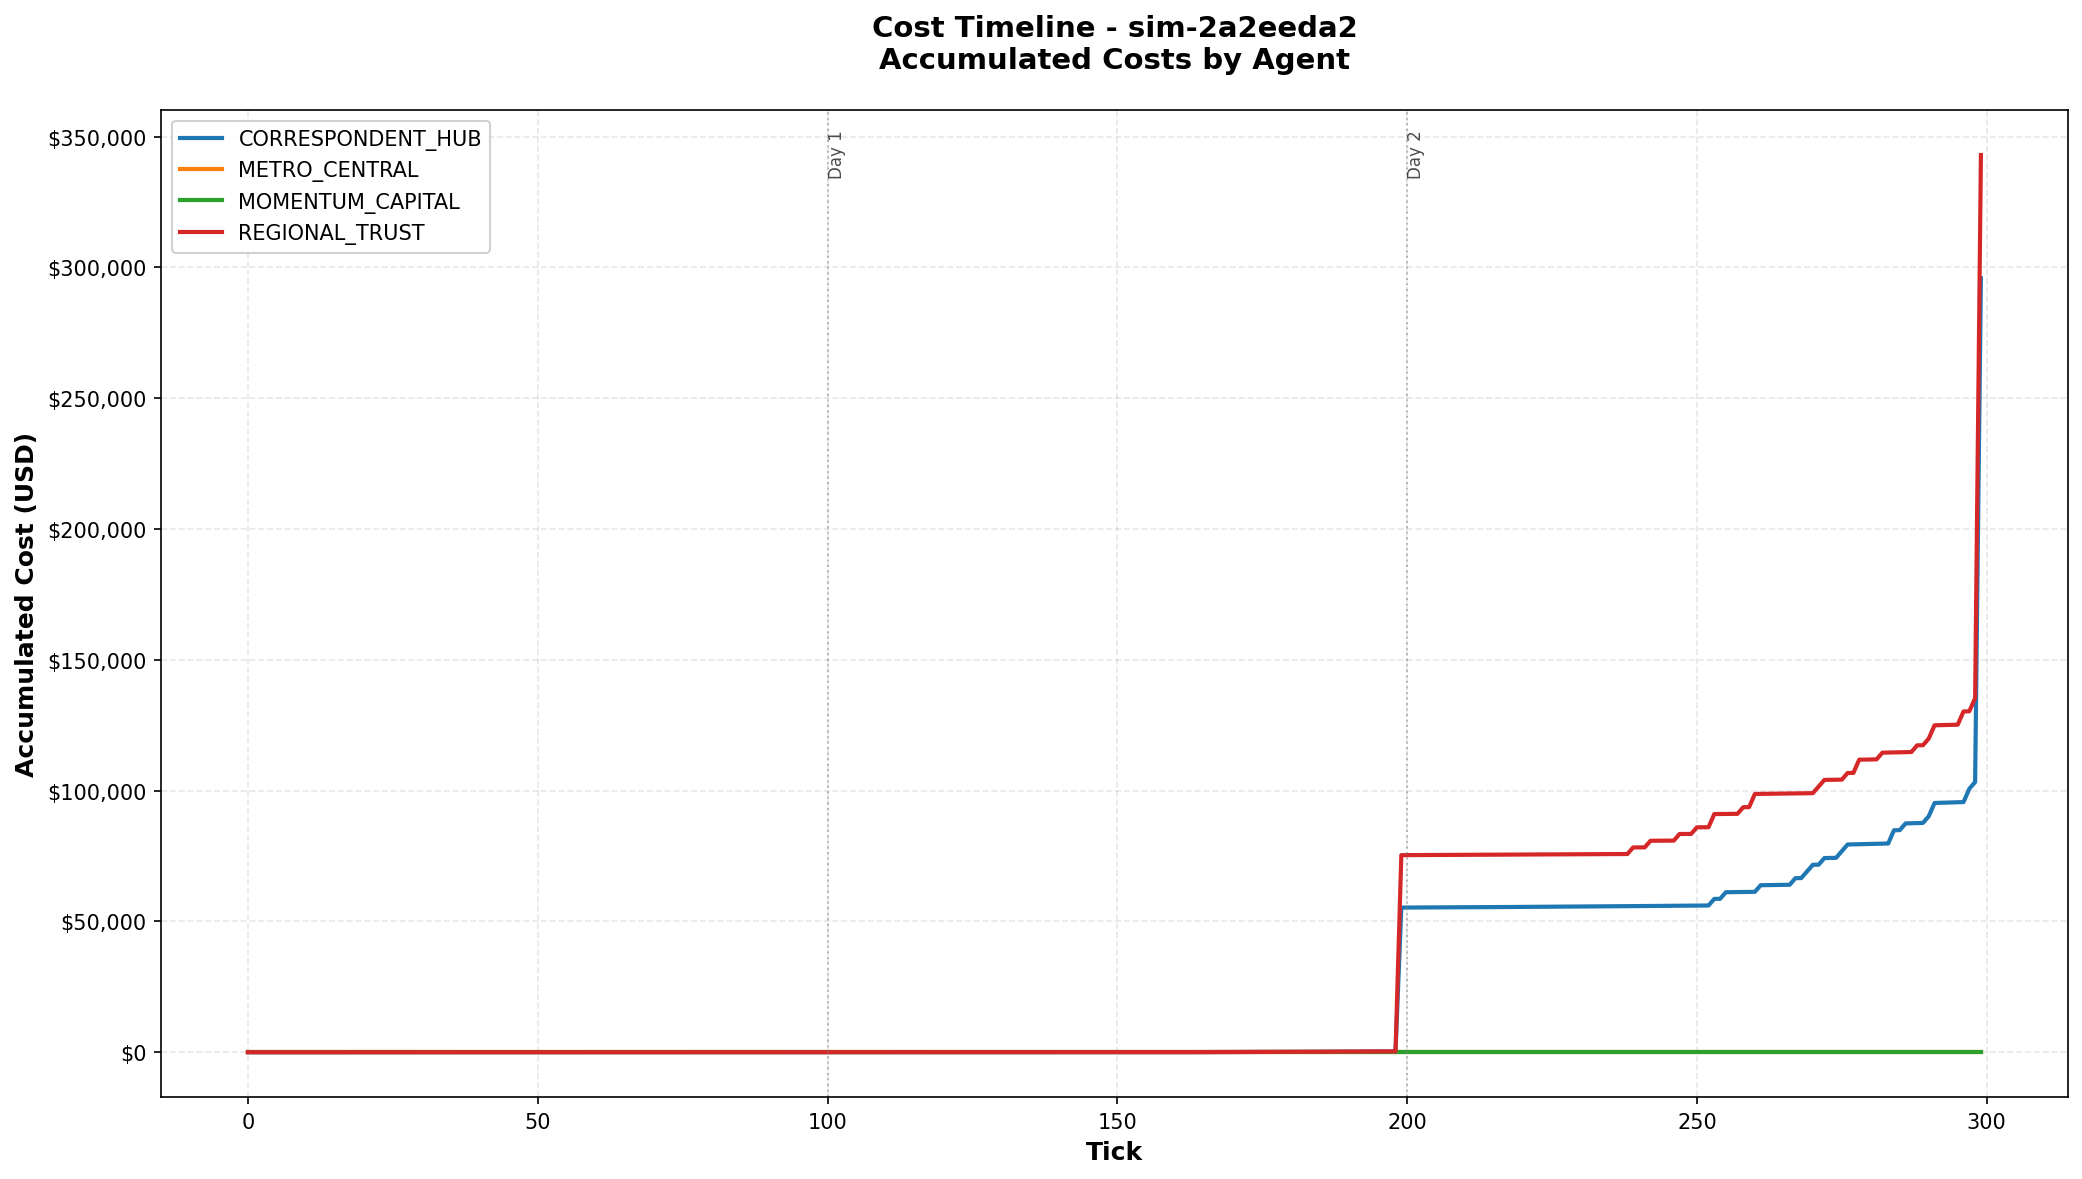
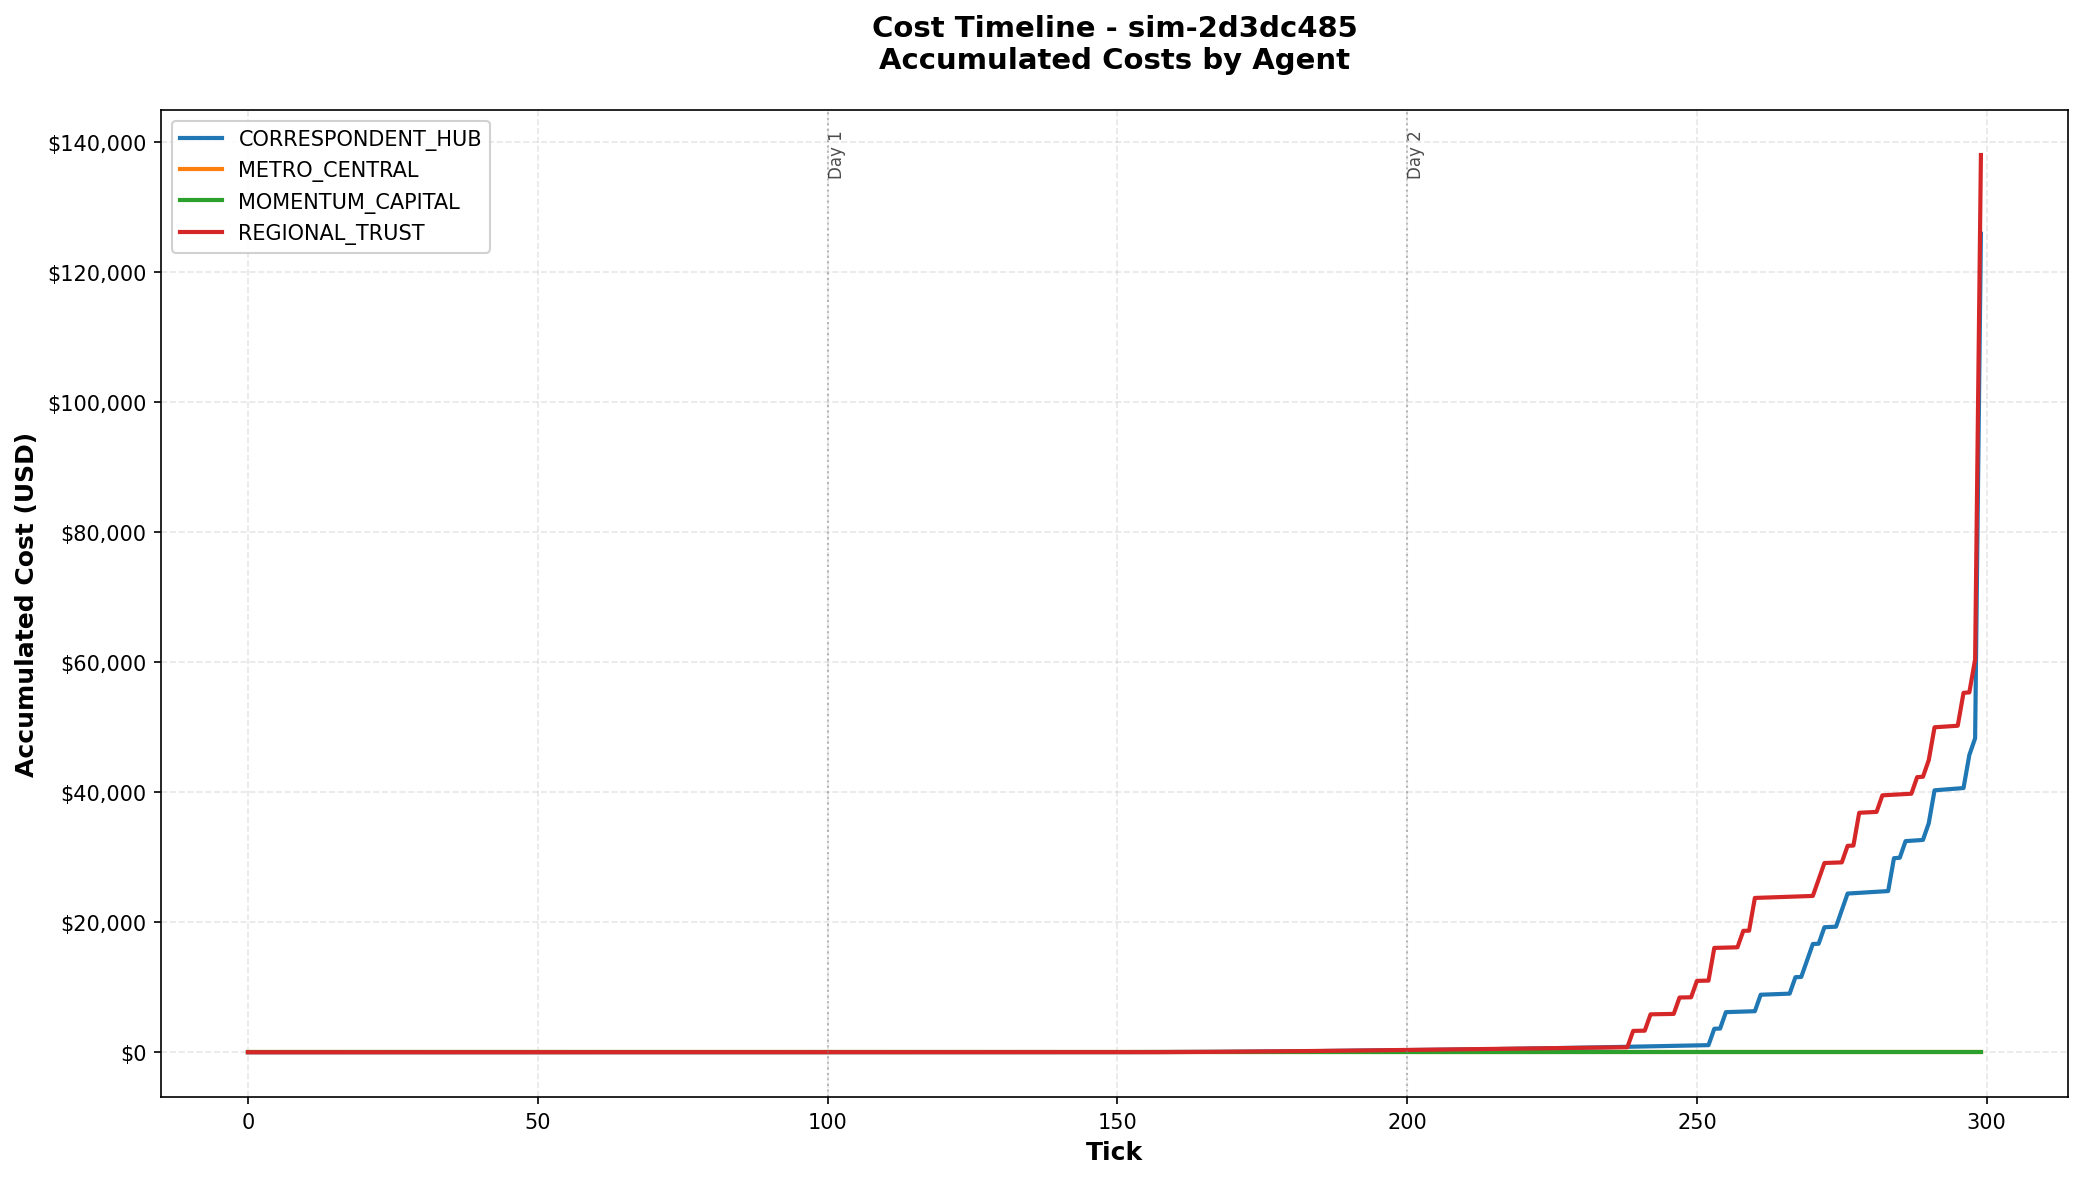
docs: Update cost charts with corrected EOD penalty logic
Regenerated crisis simulation charts after fixing the EOD penalty bug.
Charts now show accurate cost dynamics with 59% lower total costs
($263,815 vs $638,815).

The reduction comes from EOD penalties now only applying to overdue
transactions (past their deadline), not all unsettled transactions.

Key changes in charts:
- REGIONAL_TRUST: $145K (was $343K)
- CORRESPONDENT_HUB: $117K (was $296K)
- Total system costs: $264K (was $639K)

Charts generated with:
  payment-sim db costs sim-2d3dc485 --chart-output [file]

diff --git a/examples/charts/README.md b/examples/charts/README.md
@@ -11,11 +11,13 @@ This directory contains example PNG charts generated from simulations using the 
 
 Shows the running total of costs accumulated by each agent over 300 ticks (3 days). Key observations:
 
-- **REGIONAL_TRUST** (orange): Highest total costs ($342,963), showing steady climb with visible steps
-- **CORRESPONDENT_HUB** (blue): Second highest ($295,852), similar stepped pattern
+- **REGIONAL_TRUST** (orange): Highest total costs (~$145,000), showing steady climb with visible steps
+- **CORRESPONDENT_HUB** (blue): Second highest (~$117,000), similar stepped pattern
 - **METRO_CENTRAL & MOMENTUM_CAPITAL**: Zero costs - perfect liquidity management
 - **Sharp steps visible**: Each vertical jump represents a deadline penalty event ($2,500)
 - **Day boundaries**: Vertical gray lines mark transitions between days
+
+**Note**: After fixing the EOD penalty bug (which was incorrectly applying penalties to all unsettled transactions instead of only overdue ones), total system costs dropped from $638,815 to $263,815 - a 59% reduction. The corrected charts show the true cost dynamics.
 
 ### Per-Tick Costs
 ![Per-Tick Costs](crisis_costs_per_tick.png)
